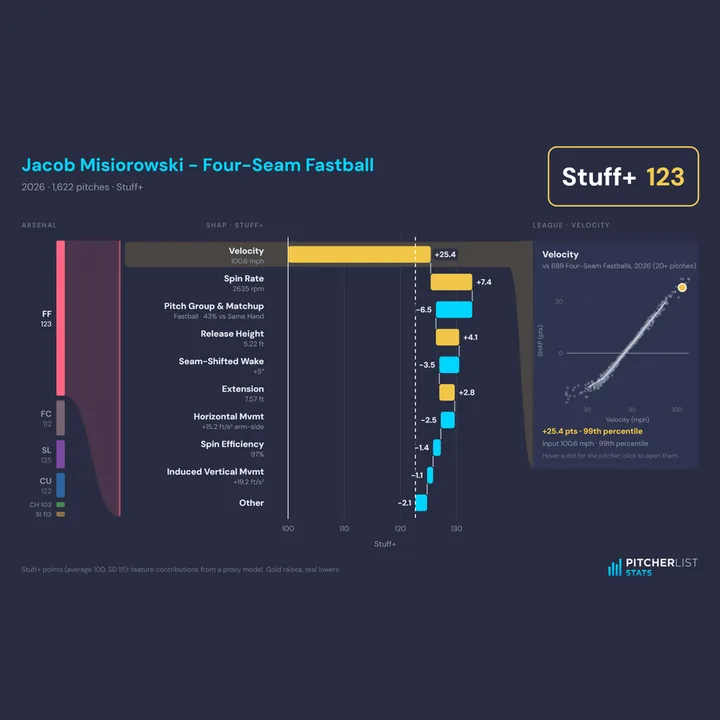
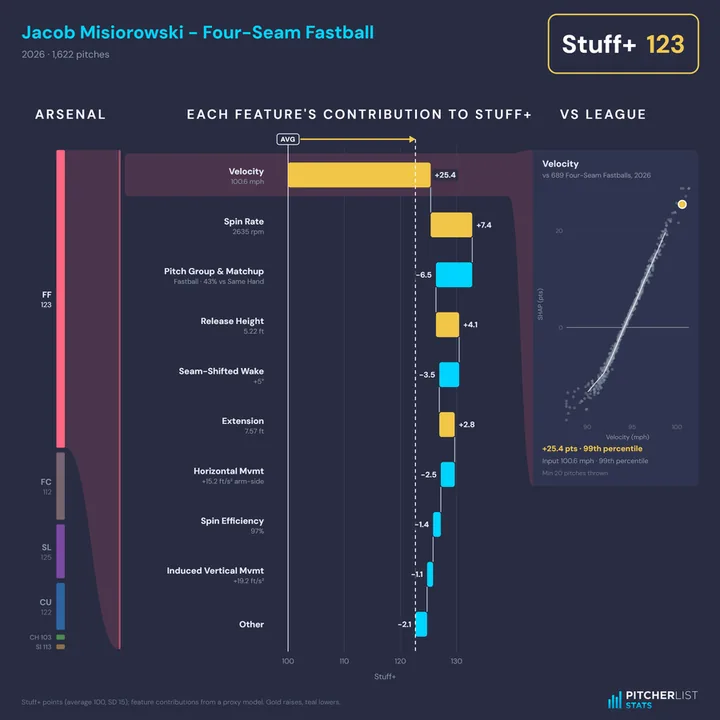
Model Drilldown: double-size headings, a square figure, "vs FB" names
- The drilldown's three headings are 22 px (were 11); the waterfall's shrinks only if a long
  target name would reach its neighbours (In-Play Out%: 19.9 px).
- The figure is square (1200 x 1200) unless the rows need more height: the body fills it, rows
  spread evenly, bars thicken with the spacing (up to 1.5x), and the league card grows with
  the body (up to 560 px).
- Comparisons to the primary fastball read "vs FB": Velo vs FB, Horizontal Mvmt vs FB,
  Vertical Mvmt vs FB (and their axis titles).
- Homepage tile redrawn from the square figure (?v=5).

data.js ?v=7, charts.js ?v=32, app.js ?v=34.

diff --git a/model-drilldown/charts.js b/model-drilldown/charts.js
@@ -16,7 +16,7 @@
 import {
   PITCH_NAMES, PITCH_COLORS, OUTCOMES, OUTCOME_NAMES, OUTCOME_COLORS, TARGET_NAMES, LABELS, AXIS, PCT,
   GROUPS, MODELS, isPlus, targetGood, targetName, rowValue, rowInput, allRows, sgn,
-} from './data.js?v=5';
+} from './data.js?v=7';
 
 export const C = {
   card: '#292C42', raise: '#30344F', ink: '#E3E9F1', muted: '#8A96A6', faint: '#6B7684', grid: '#3A3E5A',
@@ -99,7 +99,8 @@ const svgOpen = (W, H, cls) => `<svg xmlns="http://www.w3.org/2000/svg" viewBox=
   + `<rect class="bg" data-m="bg" width="${W}" height="${n1(H)}" rx="10" fill="${C.card}"/>`;
 const wordmark = (x, y, w) => `<image class="wordmark" data-m="wm" href="${WORDMARK_URL}" x="${x}" y="${n1(y)}" width="${w}" height="${n1(w * WM_ASPECT)}"/>`;
 const text = (x, y, s, attrs = '', m = null) => `<text${m ? ` data-m="${esc(m)}"` : ''} x="${n1(x)}" y="${n1(y)}" ${attrs}>${esc(s)}</text>`;
-const head = (x, y, s, anchor, m, fill = C.faint) => text(x, y, s.toUpperCase(), `font-size="11" font-weight="600" letter-spacing="1.6" fill="${fill}" text-anchor="${anchor}"`, m);
+const head = (x, y, s, anchor, m, fill = C.faint, size = 11) => text(x, y, s.toUpperCase(), `font-size="${n1(size)}" font-weight="600" letter-spacing="${n1(size * 0.145)}" fill="${fill}" text-anchor="${anchor}"`, m);
+const headWidth = (str, size) => textWidth(str.toUpperCase(), size) + size * 0.145 * str.length;
 
 function header(W, ctx, subtitle) {
   const { info, unit, target, model } = ctx;
@@ -131,7 +132,7 @@ function header(W, ctx, subtitle) {
 // flow: arsenal -> waterfall -> league panel
 // ======================================================================================
 
-export const FLOW = { W: 1200, Y0: 214, RH: 46, PH: 380 };
+export const FLOW = { W: 1200, Y0: 250, RH: 46, PH: 380 };  // PH: the league card's least height
 const HILITE = 0.16;         // the selected row's tint: the same colour and opacity as its funnel
 const CONNECTOR = '#B4BECC';  // the waterfall's bar-to-bar connectors
 
@@ -156,13 +157,16 @@ export function flowSvg(ctx) {
   const f = formats(target);
   const good = targetGood(target);
   const label = targetName(model, target);
-  // The body is as tall as the rows need, the league panel or the arsenal, whichever is most;
-  // rows and pitch types are spread evenly over all of it (bars keep the card's thickness).
-  const BB = Math.max(rows.length * RH, PH, arsenal.length * 22);
+  // The figure is square where it can be: the body takes whatever height makes H = W, or more
+  // if the rows, the league card or the arsenal need it. Rows and pitch types are spread evenly
+  // over it; bars thicken a little with the spacing (up to 1.5x the card's), and the league
+  // card grows with the body.
+  const BB = Math.max(rows.length * RH, PH, arsenal.length * 22, W - Y0 - 118);
   const S = BB / rows.length;              // row pitch
-  const BAR = RH * 0.6;                    // bar thickness
-  const HIT = Math.min(S - 4, RH + 12);    // row highlight / hover band
+  const BAR = Math.min(S * 0.6, RH * 0.9);  // bar thickness
+  const HIT = Math.min(S - 4, BAR + 30);   // row highlight / hover band
   const H = Y0 + BB + 118;
+  const CARD = Math.min(BB, 560);          // the league card's height
   let s = svgOpen(W, H, 'fig flow-fig');
   s += header(W, ctx, `${season}  ·  ${info.n.toLocaleString()} pitches`);
   const selRowDef = rows.find((r) => r.k === selected);
@@ -170,12 +174,17 @@ export function flowSvg(ctx) {
   const LX = 440, X0 = 452, X1 = 832, HX0 = 208, HX1 = 848, PX = 888;
   // column headings in white, high enough to clear the AVG label over the league line; the
   // waterfall's centred over its labels and bars
-  const HY = Y0 - 44;
+  const HY = Y0 - 52, HS = 22;  // headings at twice the old 11 px
   // Arsenal over its labels, bands and ribbon (to the bracket at 201); the waterfall's across
-  // the whole figure; vs League over the funnel and the league card
-  s += head((36 + 201) / 2, HY, 'Arsenal', 'middle', 'h1', '#fff')
-    + head(W / 2, HY, `Each ${ctx.byOutcome ? 'Outcome' : 'Feature'}'s Contribution to ${label}`, 'middle', 'h2', '#fff')
-    + head((HX1 + W - 36) / 2, HY, 'vs League', 'middle', 'h3', '#fff');
+  // the whole figure, shrunk if a long target name would reach its neighbours; vs League over
+  // the funnel and the league card
+  const AXC = (36 + 201) / 2, LXC = (HX1 + W - 36) / 2;
+  const wfTitle = `Each ${ctx.byOutcome ? 'Outcome' : 'Feature'}'s Contribution to ${label}`;
+  const room = 2 * Math.min(W / 2 - (AXC + headWidth('Arsenal', HS) / 2) - 24, LXC - headWidth('vs League', HS) / 2 - 24 - W / 2);
+  const wfSize = Math.min(HS, (HS * room) / headWidth(wfTitle, HS));
+  s += head(AXC, HY, 'Arsenal', 'middle', 'h1', '#fff', HS)
+    + head(W / 2, HY, wfTitle, 'middle', 'h2', '#fff', wfSize)
+    + head(LXC, HY, 'vs League', 'middle', 'h3', '#fff', HS);
   const pitchCol = PITCH_COLORS[info.pt] || '#c7c7c7';  // the selected row and its funnel
 
   // ---- arsenal: one band per pitch type, as tall as its share of the pitches ----
@@ -271,9 +280,9 @@ export function flowSvg(ctx) {
   });
   // The selected row's highlight and its funnel to the league panel are one shape, rounded on
   // the left only, so the band runs into the ribbon with no seam or pinch.
-  const py = selRow ? Math.max(Y0, Math.min(Y0 + BB - PH, selRow.cy - PH / 2)) : 0;
+  const py = selRow ? Math.max(Y0, Math.min(Y0 + BB - CARD, selRow.cy - CARD / 2)) : 0;
   if (selRow) {
-    const y0 = n1(selRow.cy - HIT / 2), y1 = n1(selRow.cy + HIT / 2), b0 = n1(py), b1 = n1(py + PH);  // the card's full height
+    const y0 = n1(selRow.cy - HIT / 2), y1 = n1(selRow.cy + HIT / 2), b0 = n1(py), b1 = n1(py + CARD);  // the card's full height
     const rr = 8, m = n1((HX1 + PX) / 2);
     const d = `M${HX0 + rr},${y0}L${HX1},${y0}C${m},${y0} ${m},${b0} ${PX},${b0}L${PX},${b1}C${m},${b1} ${m},${y1} ${HX1},${y1}`
       + `L${HX0 + rr},${y1}Q${HX0},${y1} ${HX0},${n1(y1 - rr)}L${HX0},${n1(y0 + rr)}Q${HX0},${y0} ${HX0 + rr},${y0}Z`;
@@ -306,7 +315,7 @@ export function flowSvg(ctx) {
   // ---- league panel for the selected row ----
   panelPoints = null;
   if (selRow) {
-    s += panel(ctx, selRow.r, PX, py, W - 36 - PX, PH, pool, poolLabel);
+    s += panel(ctx, selRow.r, PX, py, W - 36 - PX, CARD, pool, poolLabel);
   }
 
   const note = ctx.byOutcome ? `${label} points (average 100, SD 15): each predicted outcome rate × its average run value, vs league`

diff --git a/model-drilldown/data.js b/model-drilldown/data.js
@@ -58,8 +58,8 @@ export const targetName = (model, t) => (isPlus(t) ? MODELS[model].title
 export const LABELS = {
   velo: 'Velocity', ax_m: 'Horizontal Mvmt', az: 'Induced Vertical Mvmt', rel_x_m: 'Release Side',
   rel_z: 'Release Height', extension: 'Extension', spin_rate: 'Spin Rate', spin_eff: 'Spin Efficiency',
-  axis_diff: 'Seam-Shifted Wake', velo_diff: 'Velo vs Primary FB', ax_diff: 'Horizontal Mvmt vs Primary FB',
-  az_diff: 'Vertical Mvmt vs Primary FB', is_primary: 'Primary Fastball', lefty: 'Handedness',
+  axis_diff: 'Seam-Shifted Wake', velo_diff: 'Velo vs FB', ax_diff: 'Horizontal Mvmt vs FB',
+  az_diff: 'Vertical Mvmt vs FB', is_primary: 'Primary Fastball', lefty: 'Handedness',
   x_b: 'Horizontal Location', z_n: 'Vertical Location', balls: 'Balls', strikes: 'Strikes', season_env: 'Season',
   baseline: 'Pitch Group & Matchup', Location: 'Location', Count: 'Count', Other: 'Other',
 };
@@ -88,8 +88,8 @@ export const AXIS = {
   velo: 'Velocity (mph)', ax_m: 'Horizontal Mvmt (ft/s², arm side +)', az: 'Induced Vertical Mvmt (ft/s²)',
   rel_x_m: 'Release Side (ft, arm side +)', rel_z: 'Release Height (ft)', extension: 'Extension (ft)',
   spin_rate: 'Spin Rate (rpm)', spin_eff: 'Spin Efficiency', axis_diff: 'Seam-Shifted Wake (°)',
-  velo_diff: 'Velo vs Primary FB (mph)', ax_diff: 'Horizontal Mvmt vs Primary FB (ft/s²)',
-  az_diff: 'Vertical Mvmt vs Primary FB (ft/s²)', is_primary: 'Share thrown as the primary fastball',
+  velo_diff: 'Velo vs FB (mph)', ax_diff: 'Horizontal Mvmt vs FB (ft/s²)',
+  az_diff: 'Vertical Mvmt vs FB (ft/s²)', is_primary: 'Share thrown as the primary fastball',
   lefty: 'Handedness (0 = RHP, 1 = LHP)', x_b: 'Horizontal Location (ft, + = away from the batter)',
   z_n: 'Vertical Location (share of zone height)', balls: 'Balls before the pitch', strikes: 'Strikes before the pitch',
   baseline: 'Share of pitches vs same-handed batters', Other: 'Pitches',

diff --git a/index.html b/index.html
@@ -136,7 +136,7 @@
 								</article>
 									<article class="style1">
 									<span class="image">
-										<img src="images/tile-model-drilldown.webp?v=4" srcset="images/tile-model-drilldown-720.webp?v=4 720w, images/tile-model-drilldown.webp?v=4 900w" sizes="(max-width: 480px) 100vw, (max-width: 980px) 50vw, 380px" width="900" height="900" alt="Jacob Misiorowski's 2026 four-seam fastball, Stuff+ SHAP waterfall" />
+										<img src="images/tile-model-drilldown.webp?v=5" srcset="images/tile-model-drilldown-720.webp?v=5 720w, images/tile-model-drilldown.webp?v=5 900w" sizes="(max-width: 480px) 100vw, (max-width: 980px) 50vw, 380px" width="900" height="900" alt="Jacob Misiorowski's 2026 four-seam fastball, Stuff+ SHAP waterfall" />
 									</span>
 									<a href="/model-drilldown/">
 										<h2>Model Drilldown</h2>

diff --git a/model-drilldown/index.html b/model-drilldown/index.html
@@ -2,9 +2,9 @@
 <html lang="en">
 <head>
 <meta charset="utf-8">
-<link rel="modulepreload" href="app.js?v=31">
-<link rel="modulepreload" href="data.js?v=5">
-<link rel="modulepreload" href="charts.js?v=29">
+<link rel="modulepreload" href="app.js?v=34">
+<link rel="modulepreload" href="data.js?v=7">
+<link rel="modulepreload" href="charts.js?v=32">
 <link rel="modulepreload" href="morph.js?v=1">
 <link rel="modulepreload" href="https://cdn.jsdelivr.net/npm/hyparquet@1.31.1/+esm">
 <meta name="viewport" content="width=device-width,initial-scale=1">
@@ -200,6 +200,6 @@ details[open] summary{margin-bottom:10px}
   </section>
 </main>
 <div id="tip" hidden role="tooltip"></div>
-<script type="module" src="app.js?v=31"></script>
+<script type="module" src="app.js?v=34"></script>
 </body>
 </html>

diff --git a/model-drilldown/app.js b/model-drilldown/app.js
@@ -6,11 +6,11 @@ import {
   loadMeta, loadFeatures, loadUnits, loadFidelity, cardRows, rowValue, minImpact, targetName, targetGood,
   outcomeRows, outcomeValue, outcomeInput, OUTCOME_AXIS,
   MODELS, OUTCOMES, TARGET_NAMES, PITCH_NAMES, LABELS,
-} from './data.js?v=5';
+} from './data.js?v=7';
 import {
   flowSvg, swarmSvg, sankeySvg, svgToPng, nearestPanelPoint, nearestSwarmPoint, sankeyLink,
   formats, pctile, ord, niceTicks, C,
-} from './charts.js?v=29';
+} from './charts.js?v=32';
 import { morph } from './morph.js?v=1';
 
 const DEFAULT = { season: 2026, pitcher: 694819, pt: 'FF' };  // Jacob Misiorowski's four-seamer
